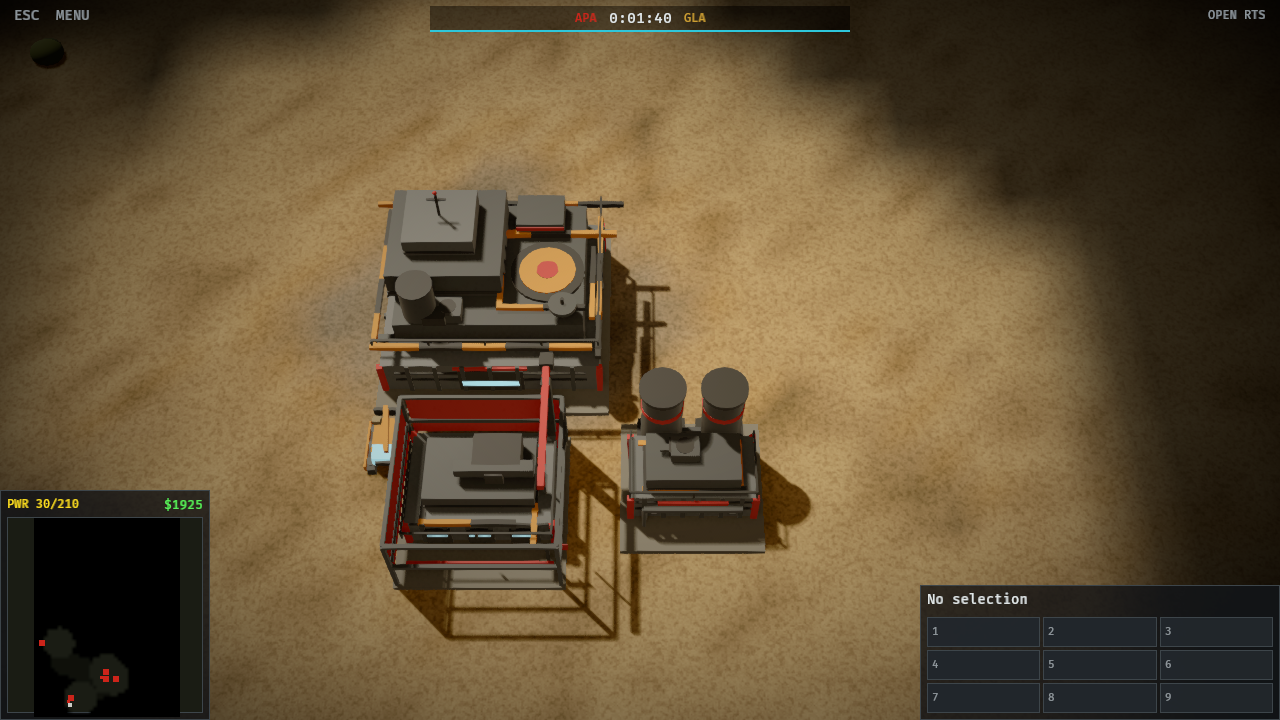
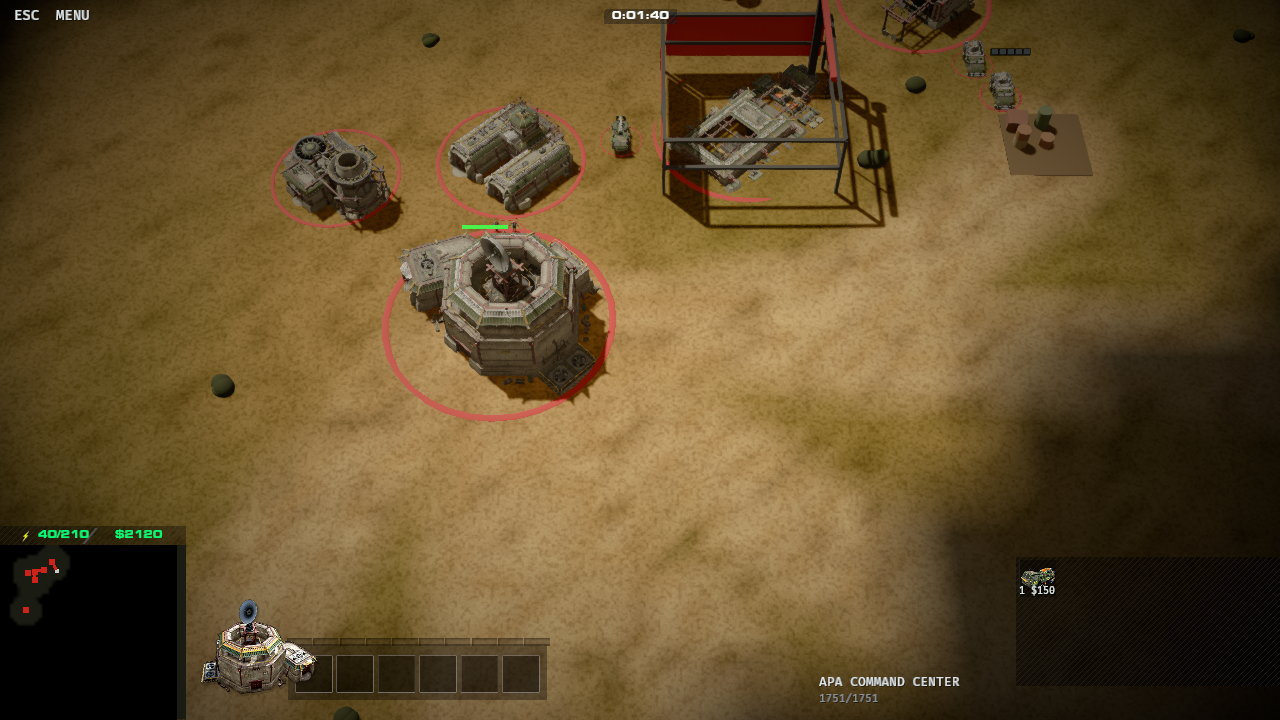
feat(site): gallery rendered with the imported 2013 alpha
Re-rendered every gallery shot at 1280x720 with the alpha cache: the
alpha's models, bottom-bar HUD, portraits and build icons. Published by
the maintainer's decision; the README legal section and the site say so.
The hero is now an EU/GLA firefight at 3:53; base and battle frames show
a selection (command center, war factory) so the portrait and build grid
are filled; map and bridge are revealed.

HUD: field slots keep their backing plates (the timer's), and the text
sits in the alpha's own text rect without wrapping; power shows as bare
figures beside the alpha's power icon.

diff --git a/site/index.html b/site/index.html
@@ -131,7 +131,7 @@
 
 <main>
   <section class="hero">
-    <img src="img/hero.png" alt="An APA tank and infantry attacking an EU base on a savanna in Open RTS">
+    <img src="img/hero.png" alt="EU infantry trading fire with a GLA raid of infantry and a Technical at 3:53, under the 2013 alpha's HUD">
     <div class="veil"></div>
     <div class="copy">
       <h1>Open RTS <span class="glow">— hold the line.</span></h1>
@@ -194,8 +194,10 @@
   </div>
 
   <h2 id="screens">Screens</h2>
-  <p class="lede">Everything is rendered by the game itself — original procedural meshes and
-    textures, no borrowed art.</p>
+  <p class="lede">Rendered by the game itself, with a copy of the 2013 closed alpha imported: the
+    unit and building models, the bottom-bar HUD, portraits and build icons are the alpha's (EA's
+    art), laid out by its own HUD files and fed by this game's simulation. Without the import the
+    game draws its own procedural models and HUD instead.</p>
   <div class="shots">
     <figure>
       <img src="img/menu.png" alt="The Open RTS main menu over a battlefield">
@@ -206,16 +208,16 @@
       <figcaption>Skirmish setup: 86 maps, slots, factions, generals, credits, fog.</figcaption>
     </figure>
     <figure>
-      <img src="img/base.png" alt="An APA base at 1:40: command center, barracks under scaffolding and a power plant">
-      <figcaption>An APA base going up: command center, a power plant, and barracks still in their scaffold.</figcaption>
+      <img src="img/base.png" alt="An APA base at 1:40 with the command center selected: its portrait and build button in the alpha HUD">
+      <figcaption>An APA base going up, the command center selected: its portrait, and the harvester it trains in the build grid.</figcaption>
     </figure>
     <figure>
-      <img src="img/battle.png" alt="A GLA base at three minutes: sandbagged command center, factories, tanks and the supply stash">
-      <figcaption>Three minutes in: a GLA base of scrap and sandbags, its tanks and infantry, and the crate-yard supply stash.</figcaption>
+      <img src="img/battle.png" alt="A GLA base at three minutes with the war factory selected: its three vehicles in the build grid">
+      <figcaption>Three minutes in, GLA: the war factory selected, its Scorpion, Toxin Artillery and Technical in the alpha's build grid.</figcaption>
     </figure>
     <figure>
-      <img src="img/maps.png" alt="An original Zero Hour map imported into Open RTS">
-      <figcaption>The original maps load from EA's GPL map sources at runtime.</figcaption>
+      <img src="img/maps.png" alt="Zero Hour's Tournament Desert imported into Open RTS, whole map revealed">
+      <figcaption>The original maps load from EA's GPL map sources at runtime: Tournament Desert, whole map.</figcaption>
     </figure>
     <figure>
       <img src="img/bridge.png" alt="A concrete bridge crossing the river on Winding River">
@@ -260,8 +262,16 @@ cargo test --workspace</pre>
     </div>
     <div class="card">
       <h3>What is not</h3>
-      <p>A network lobby, music and voices, campaign, generals' perks, real art. The balance is
+      <p>A network lobby, campaign, generals' perks, art of its own beyond procedural shapes; the
+        alpha's music and voices only play from an imported copy. The balance is
         unexamined by design — the numbers are sourced, not tuned.</p>
+    </div>
+    <div class="card">
+      <h3>The 2013 alpha</h3>
+      <p>If you have the closed-alpha client, <code>g2-tools alpha DIR import</code> decodes it into
+        a cache on your machine; the game then uses its models, sounds, voices, music and HUD.
+        Neither the alpha nor the cache is in this repository or the AppImage; the screenshots
+        above show it.</p>
     </div>
     <div class="card">
       <h3>The maps</h3>

diff --git a/crates/g2-client/src/alpha_hud.rs b/crates/g2-client/src/alpha_hud.rs
@@ -176,7 +176,7 @@ fn slot(name: &str) -> Option<Slot> {
         // The alpha shows one of two gold texts, with or without power beside it; ours has
         // its own power field, so the "with power" one carries the money.
         "Gold Text with power" => Slot::Field(|| Field::Money),
-        "Power Container" => Slot::Field(|| Field::Power),
+        "Power Container" => Slot::Field(|| Field::PowerFigures),
         "Minimap container" => Slot::Minimap,
         "Timer" => Slot::Field(|| Field::Clock),
         "GeneralPortrait" => Slot::Portrait,
@@ -285,7 +285,7 @@ impl Ctx<'_, '_, '_> {
             }
             Some(Slot::Field(f)) => {
                 let color = match f() {
-                    Field::Money | Field::Power => Color::srgb_u8(0x00, 0xfd, 0x77),
+                    Field::Money | Field::Power | Field::PowerFigures => Color::srgb_u8(0x00, 0xfd, 0x77),
                     _ => Color::WHITE,
                 };
                 let font = TextFont {
@@ -293,8 +293,26 @@ impl Ctx<'_, '_, '_> {
                     font_size: FontSize::Px((16.0 * s).max(9.0)),
                     ..default()
                 };
+                // The alpha's own text child, when there is one, marks where the text goes
+                // (beside the power icon, inside the timer's plate); else the whole slot.
+                let [tx, ty, tw, th] = w.children.iter().find(|c| c.text.is_some()).map_or([0.0, 0.0, wd, ht], |c| {
+                    let ([cx, cy, cw, ch], _) = utfwin::place(c, (x, y), s, self.screen);
+                    [cx - x, cy - y, cw, ch]
+                });
+                let area = Node {
+                    position_type: PositionType::Absolute,
+                    left: px(tx),
+                    top: px(ty),
+                    width: px(tw.max(0.0)),
+                    height: px(th.max(0.0)),
+                    align_items: AlignItems::Center,
+                    justify_content: JustifyContent::Center,
+                    ..default()
+                };
                 e.with_children(|t| {
-                    t.spawn((Text::new(""), font, TextColor(color), f()));
+                    t.spawn((area, GlobalZIndex(1))).with_children(|t| {
+                        t.spawn((Text::new(""), TextLayout::no_wrap(), font, TextColor(color), f()));
+                    });
                 });
             }
             None => {
@@ -308,12 +326,20 @@ impl Ctx<'_, '_, '_> {
             }
         }
         // Our content replaces whatever the alpha drew inside a filled slot (minimap pins,
-        // text backgrounds, its own button art).
-        if matches!(slot, Some(Slot::Minimap | Slot::Field(_) | Slot::BuildGrid)) {
-            return;
-        }
-        for c in &w.children {
-            self.window(c, (x, y), s);
+        // its own text, its button art); a field keeps the plates behind its text (the
+        // timer's dark backing), with the text raised above them.
+        match slot {
+            Some(Slot::Minimap | Slot::BuildGrid) => {}
+            Some(Slot::Field(_)) => {
+                for c in w.children.iter().filter(|c| c.image.is_some() && c.text.is_none()) {
+                    self.window(c, (x, y), s);
+                }
+            }
+            _ => {
+                for c in &w.children {
+                    self.window(c, (x, y), s);
+                }
+            }
         }
     }
 }

diff --git a/crates/g2-client/src/hud.rs b/crates/g2-client/src/hud.rs
@@ -35,6 +35,8 @@ pub(crate) enum Field {
     /// A player's tag in the match bar, dimmed once that player is defeated.
     Tag(g2_sim::PlayerId),
     Power,
+    /// Power as bare figures ("20/180"), for the alpha's power slot beside its own icon.
+    PowerFigures,
     Money,
     /// The general's power: "G <name>" when ready, else its countdown; hidden without one.
     GeneralPower,
@@ -550,6 +552,10 @@ fn update_fields(
                 } else {
                     "PWR -".into()
                 }
+            }
+            Field::PowerFigures => {
+                t.0 =
+                    if me.faction.uses_power() { format!("{}/{}", me.power_drain, me.power_supply) } else { "-".into() }
             }
             Field::Money => t.0 = format!("${}", me.credits),
             Field::GeneralPower => {

diff --git a/README.md b/README.md
@@ -203,4 +203,4 @@ The difference: Strong Hold reimplements an existing game and checks it against 
 
 `vendor/` contains GPL-3.0 code; the EA release carries GPL §7 additional terms (no trademark use, no claims of EA affiliation, modifications must be marked). No code from it is in `crates/`; `crates/g2-maps` is our own reader written from the file format. Imported map data is read from `vendor/ea/CnC_Modding_Support` (or `$G2_MAPS_DIR`, for a binary run outside this tree) at runtime and never copied into the repository. Everything under `archive/` (videos, Wayback captures, wiki text, press pages, concept art, and their manifests) is third-party material kept local-only: it is gitignored, has never been in this repository's history, and is never redistributed. Our own notes on that material stay outside the repository too.
 
-`crates/g2-frostbite` reads the data of the 2013 closed alpha from a copy the player has. It contains no EA data, and nor does anything this project ships. `g2-tools alpha DIR import` decodes an install into a cache on the player's machine, and the client reads that cache when it exists. The cache is EA's content: keep it on your machine and never put it in this repository or anything built from it. The audio decoders (EA-XAS, EA-XA v2) are ports of vgmstream's (ISC licence; the notice is in `crates/g2-frostbite/src/audio.rs`). The rest of the reader is our own, written from the alpha's bytes; these format references were consulted, not ported: frankelstner's BF3 dumper notes and mitsuhiko's frostbite2-stuff (containers), NicknineTheEagle's Frostbite-Scripts (ebx, texture format codes) and marv7000's IceBloc (mesh field names; GPL-2.0, no code taken). The reader's unit tests use synthetic data; the checks against a real install run only when `G2_ALPHA_DIR` (and, for the client's mapping, `G2_ALPHA_CACHE`) is set.
+`crates/g2-frostbite` reads the data of the 2013 closed alpha from a copy the player has. It contains no EA data, and nor do the repository's code, the AppImage or the releases. The exception is the website's screenshots (`site/img/`): they are frames the game rendered with an imported alpha, so they show EA's models, HUD art and portraits, published by the maintainer's decision. `g2-tools alpha DIR import` decodes an install into a cache on the player's machine, and the client reads that cache when it exists. The cache is EA's content: keep it on your machine and never put it in this repository or anything built from it. The audio decoders (EA-XAS, EA-XA v2) are ports of vgmstream's (ISC licence; the notice is in `crates/g2-frostbite/src/audio.rs`). The rest of the reader is our own, written from the alpha's bytes; these format references were consulted, not ported: frankelstner's BF3 dumper notes and mitsuhiko's frostbite2-stuff (containers), NicknineTheEagle's Frostbite-Scripts (ebx, texture format codes) and marv7000's IceBloc (mesh field names; GPL-2.0, no code taken). The reader's unit tests use synthetic data; the checks against a real install run only when `G2_ALPHA_DIR` (and, for the client's mapping, `G2_ALPHA_CACHE`) is set.
